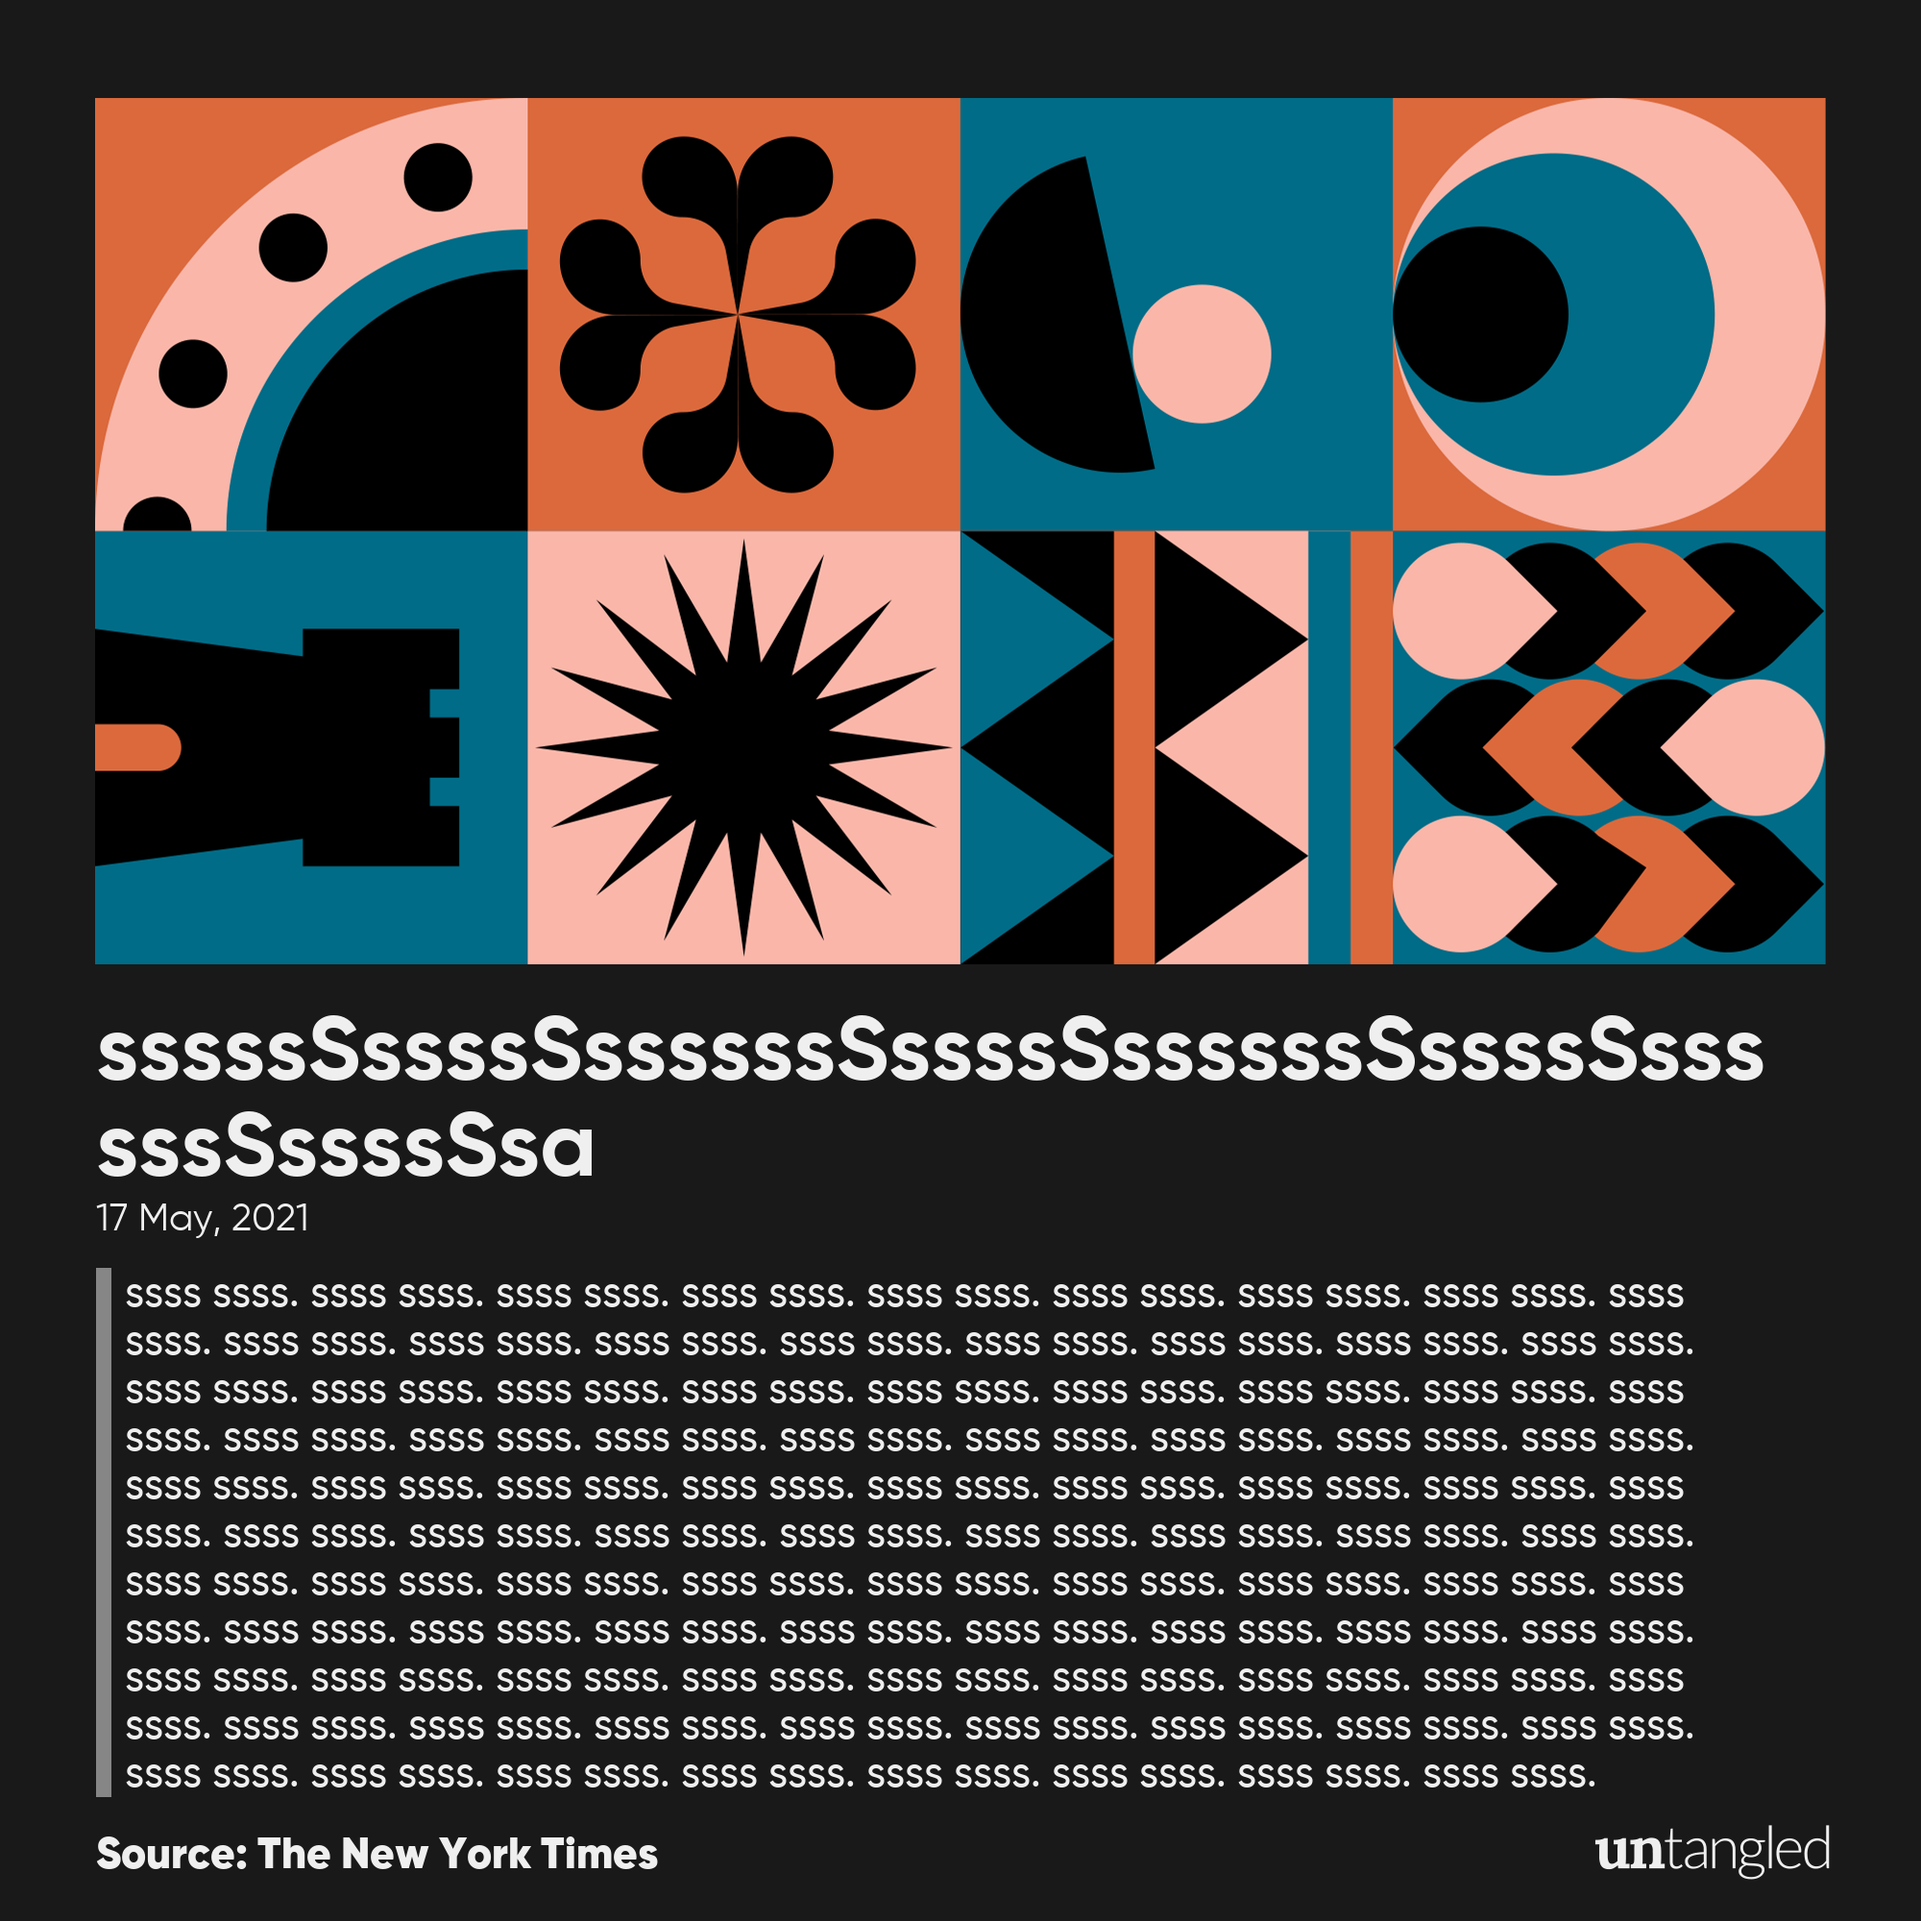
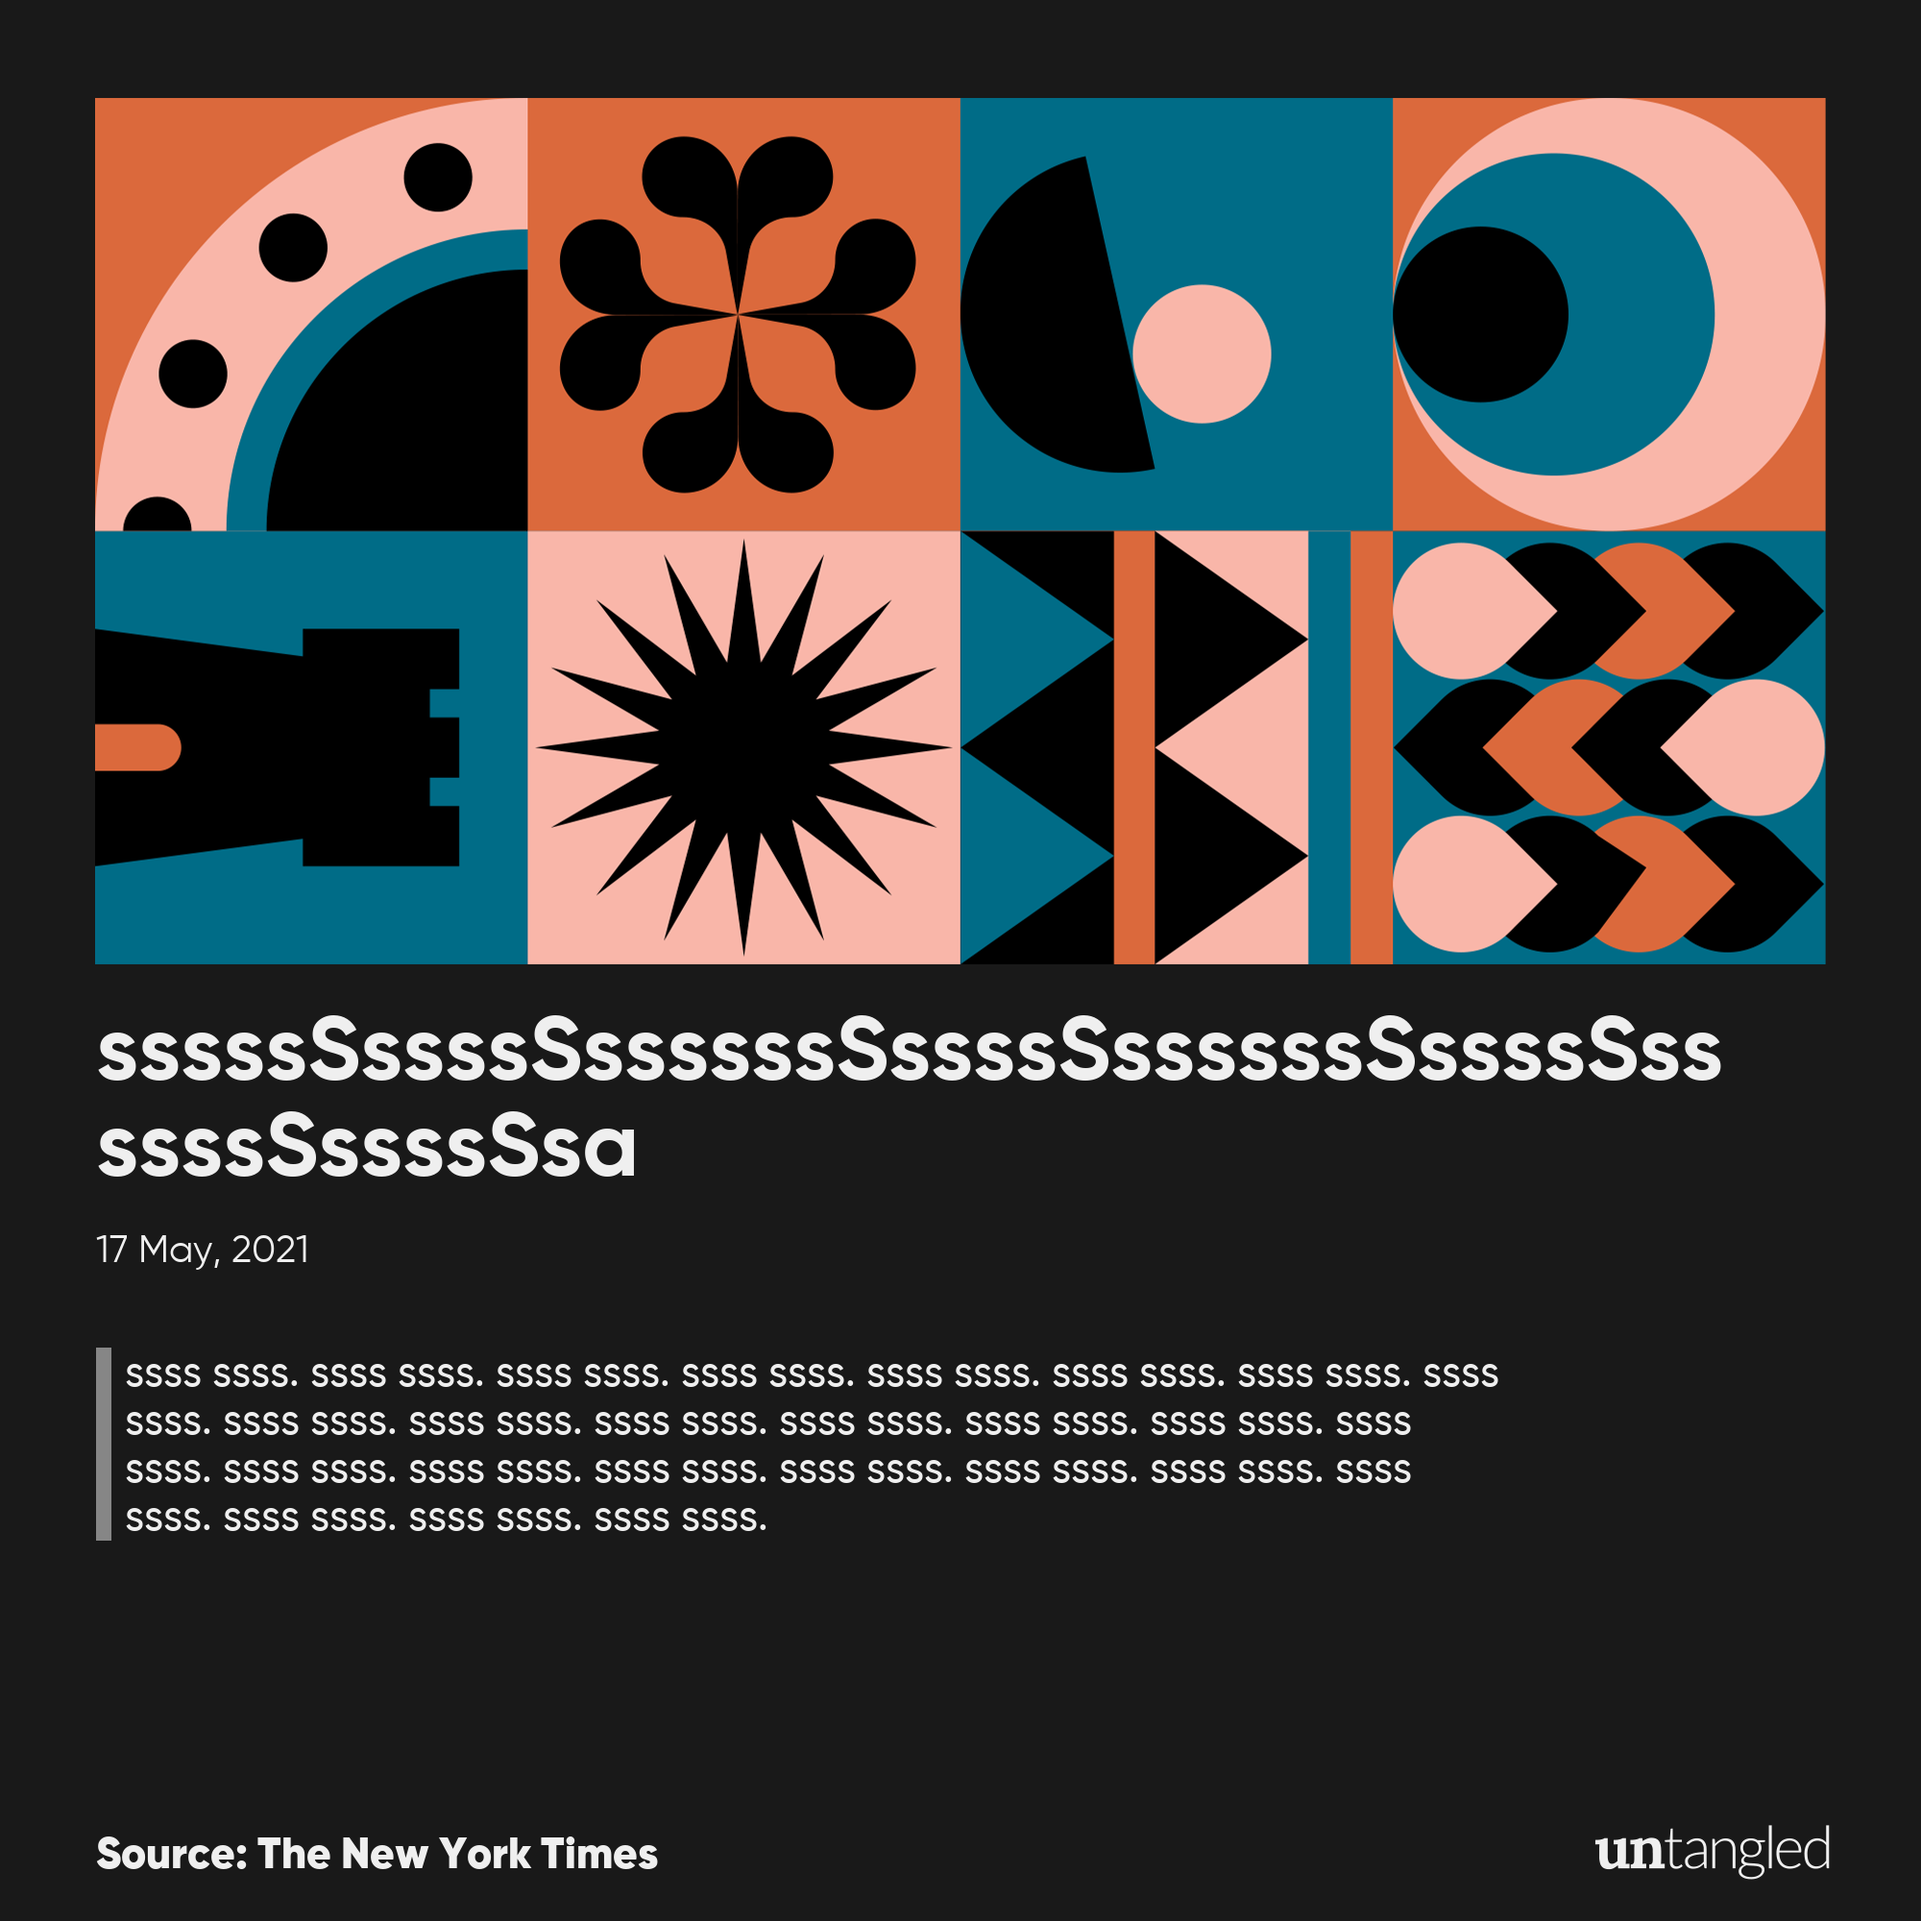
fixed: spacing

Changed region(s): [[0.031, 0.558, 0.899, 0.93], [0.217, 0.558, 0.341, 0.62], [0.899, 0.527, 0.93, 0.558]]

diff --git a/image_manip.py b/image_manip.py
@@ -75,14 +75,24 @@ def create_template(title, description, src, date, img, theme):
     # spacing
     if img == None:
         height_for_next_element = 1050
+        writtable_height = 850
     else:
         height_for_next_element = 100
-    spacing_factor = 0
-    if len(title_wrapped) <= 2:
-        if len(description_wrapped) <= 5:
-            spacing_factor = 30
-        elif len(description_wrapped) <= 6:
-            spacing_factor = 25
+        writtable_height = 720
+
+    title_height = len(title_wrapped)*100
+    date_height = 70
+    description_height = len(description_wrapped)*50
+
+    spacing_factor = writtable_height - (
+        title_height +
+        date_height +
+        description_height
+    )
+    print(spacing_factor)
+
+    if spacing_factor < 0: spacing_factor = 0
+    elif spacing_factor > 100: spacing_factor = 100
 
     # ready to draw
     draw = ImageDraw.Draw(template)
@@ -96,7 +106,7 @@ def create_template(title, description, src, date, img, theme):
             font=Font.bold
         )
         height_for_next_element += 100
-    height_for_next_element += spacing_factor
+    height_for_next_element += spacing_factor/3
 
     # date
     draw.text(
@@ -105,11 +115,11 @@ def create_template(title, description, src, date, img, theme):
         fill=fg_primary,
         font=Font.regular
     )
-    height_for_next_element += 70
+    height_for_next_element += 70 + spacing_factor/2
 
-    # sub title
+    # description
     rect_width = 15
-    rect_height = len(description_wrapped)*50
+    rect_height = description_height
     rect_shape = [
         (100, height_for_next_element),
         (rect_width+100, rect_height+height_for_next_element)
@@ -134,6 +144,5 @@ def create_template(title, description, src, date, img, theme):
         fill=fg_primary,
         font=Font.black
     )
-    height_for_next_element += 80 + spacing_factor
 
     return template

diff --git a/test.py b/test.py
@@ -2,7 +2,7 @@ from image_manip import create_template
 import requests
 
 title = "sssssSssssSssssssSssssSssssssSssssSssssssSssssSsa"
-description = "ssss ssss. ssss ssss. ssss ssss. ssss ssss. ssss ssss. ssss ssss. ssss ssss. ssss ssss. ssss ssss. ssss ssss. ssss ssss. ssss ssss. ssss ssss. ssss ssss. ssss ssss. ssss ssss. ssss ssss. ssss ssss. ssss ssss. ssss ssss. ssss ssss. ssss ssss. ssss ssss. ssss ssss. ssss ssss. ssss ssss. ssss ssss. ssss ssss. ssss ssss. ssss ssss. ssss ssss. ssss ssss. ssss ssss. ssss ssss. ssss ssss. ssss ssss. ssss ssss. ssss ssss. ssss ssss. ssss ssss. ssss ssss. ssss ssss. ssss ssss. ssss ssss. ssss ssss. ssss ssss. ssss ssss. ssss ssss. ssss ssss. ssss ssss. "
+description = "ssss ssss. ssss ssss. ssss ssss. ssss ssss. ssss ssss. ssss ssss. ssss ssss. ssss ssss. ssss ssss. ssss ssss. ssss ssss. ssss ssss. ssss ssss. ssss ssss. ssss ssss. ssss ssss. ssss ssss. ssss ssss. ssss ssss. ssss ssss. ssss ssss. ssss ssss. ssss ssss. ssss ssss. ssss ssss. "
 
 src = "The New York Times"
 
@@ -13,5 +13,5 @@ img = requests.get(
     stream=True
 ).raw
 
-post = create_template(title, description*2, src, date, None, 'dark')
+post = create_template(title, description, src, date, None, 'dark')
 post.save('test.png')

diff --git a/bot.py b/bot.py
@@ -22,7 +22,7 @@ while True:
         current_hash = url_to_hash(story.url)
         if (current_hash == previous_hash): break
         story.scrape()
-        title, description, src, date, img = story.get_all()
+        title, description, src, date, img, src_url = story.get_all()
         post = create_template(title, description, src, date, img, theme)
         if post == None:
             log_warning("problem in one of the parameters of this story", story.url)
@@ -30,6 +30,8 @@ while True:
         img_path = 'posts\\' + current_hash + '.PNG'
         post.save(img_path)
         imgbb_url = upload_to_imgbb(img_path)
+        if src_url != None:
+            description += f"\nSource: {src_url}"
         post_to_fb(imgbb_url, description)
         os.remove(img_path)
 

diff --git a/scrapper.py b/scrapper.py
@@ -20,6 +20,7 @@ class Story():
         self.src = self.__get_src()
         self.date = self.__get_date()
         self.img = self.__get_img()
+        self.src_link = self.__get_src_link()
         
 
     def __get_title(self):
@@ -80,13 +81,18 @@ class Story():
         except Exception as e:
             log_warning("problem in image", e)
 
+    def __get_src_link(self):
+        if self.netloc == urlparse(self.url).netloc:
+            return self.url
+
     def get_all(self):
         return (
             self.title,
             self.description,
             self.src,
             self.date,
-            self.img
+            self.img,
+            self.src_link
         )
 
 
